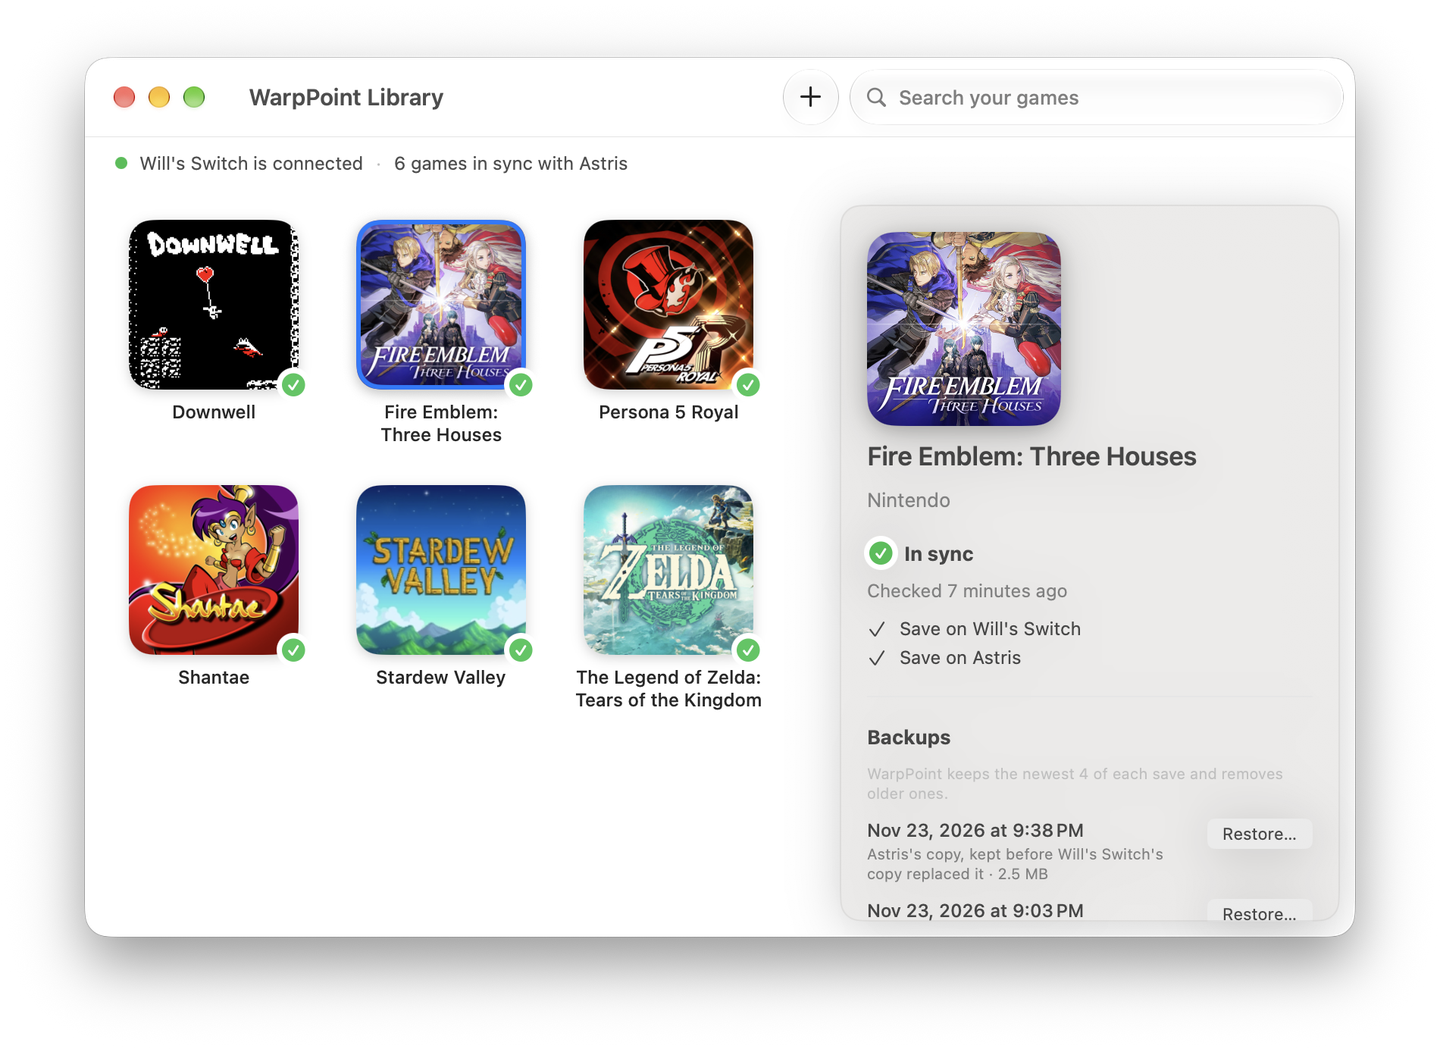
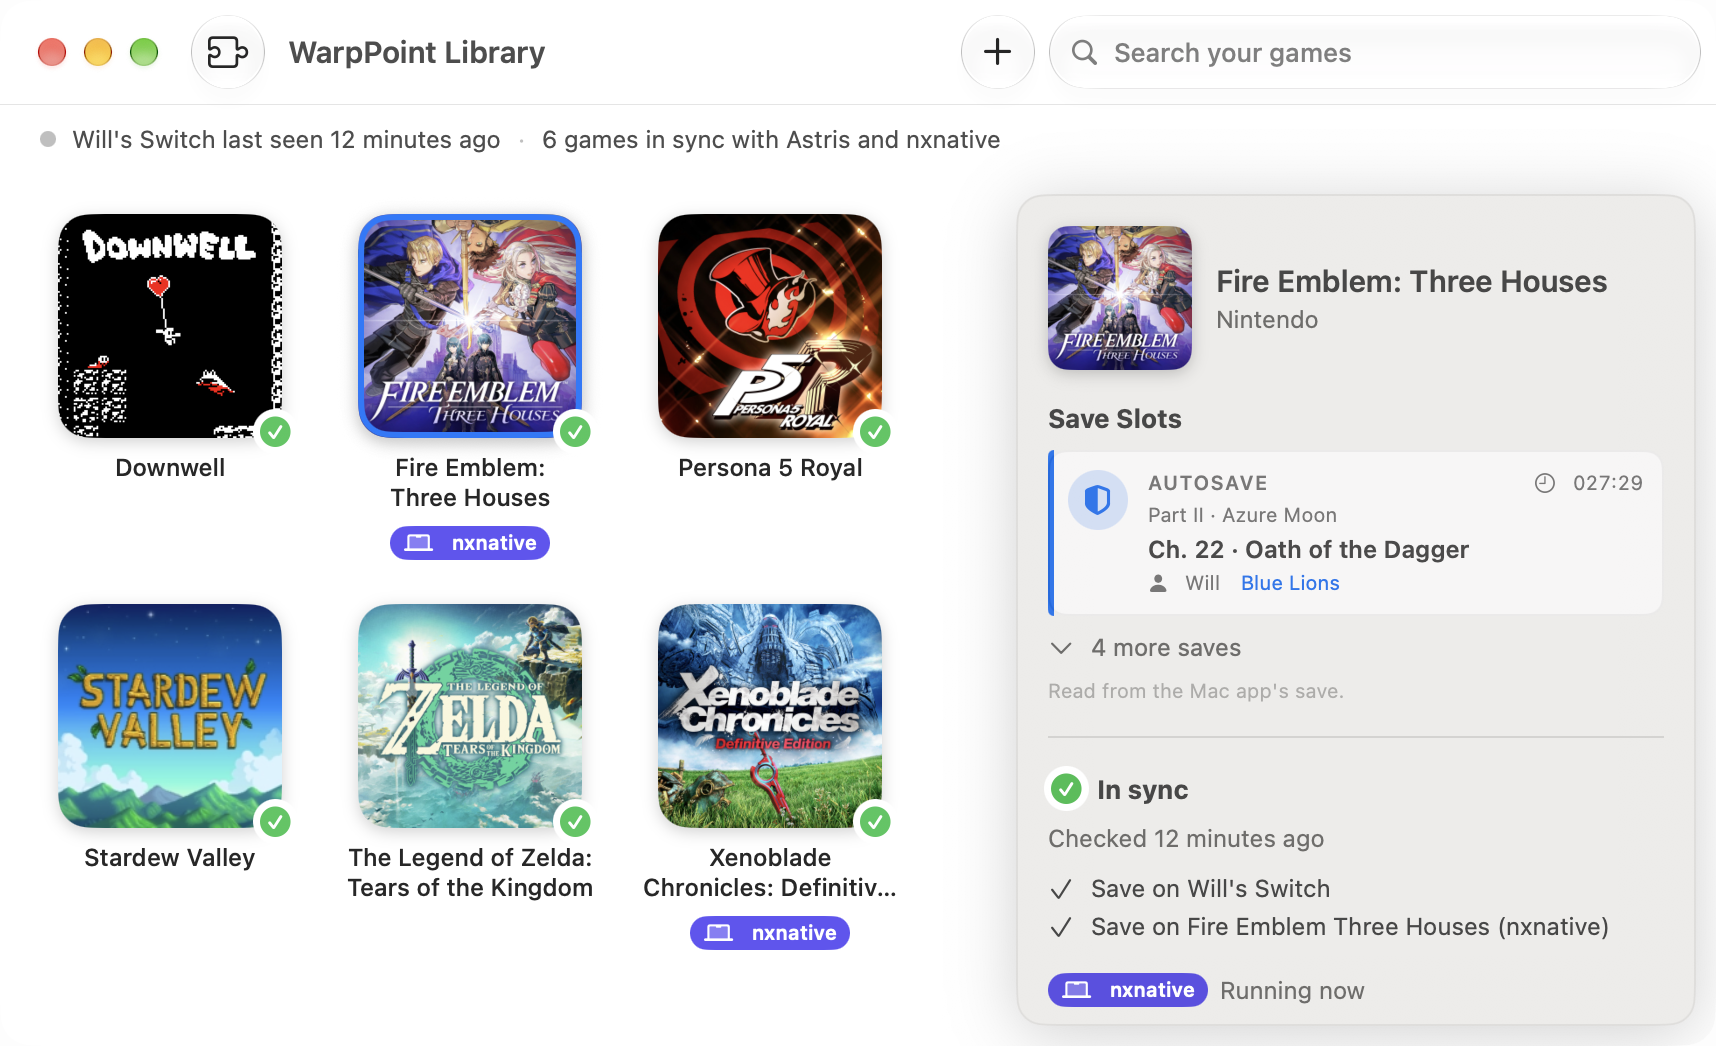
Library: a save that changed on both sides gets a card at the top of the details panel
Two full-width buttons, the Mac's copy and the Switch's, in place of the two cut-off
buttons below the nxnative section. New library screenshot in the README.

diff --git a/app/mac/Sources/GameDetail.swift b/app/mac/Sources/GameDetail.swift
@@ -23,6 +23,9 @@ struct GameDetail: View {
     ScrollView(.vertical) {
       VStack(alignment: .leading, spacing: 16) {
         header
+        if game.status == "conflict", let c = model.conflicts.first(where: { $0.key == game.key }) {
+          conflictCard(c)
+        }
         if preview.supported {
           SavePreviewSection(preview: preview,
                              source: game.isNative ? "the Mac app's save" : "\(emulator)'s save",
@@ -142,15 +145,53 @@ struct GameDetail: View {
            : "Not on \(console) yet. Start the game there once, then pick which save to keep on the next sync. (WarpPoint 1.3 on the Switch can make the save itself.)")
         .font(.callout).foregroundStyle(.secondary)
         .fixedSize(horizontal: false, vertical: true)
-    } else if game.status == "conflict", let c = model.conflicts.first(where: { $0.key == game.key }) {
-      VStack(alignment: .leading, spacing: 6) {
-        HStack {
-          Button("Keep \(emulator)") { model.resolve(c, keepLocal: true) }
-          Button("Keep \(console)") { model.resolve(c, keepLocal: false) }
-        }
-        Text("The other copy is backed up first.").font(.caption).foregroundStyle(.secondary)
+    }
+  }
+
+  /// A save that changed on both sides: the first thing in the panel, with one big button
+  /// per copy.
+  private func conflictCard(_ c: Conflict) -> some View {
+    VStack(alignment: .leading, spacing: 10) {
+      HStack(spacing: 8) {
+        Image(systemName: "exclamationmark.triangle.fill").foregroundStyle(.orange)
+        Text("Changed on both sides").font(.headline)
+      }
+      Text("Which copy do you want to keep? The other one is backed up first, so you can get it back.")
+        .font(.callout).foregroundStyle(.secondary)
+        .fixedSize(horizontal: false, vertical: true)
+      keepButton(title: "Keep the Mac's copy", detail: game.macName, icon: "laptopcomputer") {
+        model.resolve(c, keepLocal: true)
+      }
+      keepButton(title: "Keep \(console)'s copy", detail: "The save on \(console)",
+                 icon: "gamecontroller") {
+        model.resolve(c, keepLocal: false)
       }
     }
+    .padding(12)
+    .frame(maxWidth: .infinity, alignment: .leading)
+    .background(Color.orange.opacity(0.10), in: RoundedRectangle(cornerRadius: 10))
+    .overlay(RoundedRectangle(cornerRadius: 10).strokeBorder(Color.orange.opacity(0.35)))
+  }
+
+  private func keepButton(title: String, detail: String, icon: String,
+                          action: @escaping () -> Void) -> some View {
+    Button(action: action) {
+      HStack(spacing: 10) {
+        Image(systemName: icon).font(.system(size: 17)).frame(width: 24)
+        VStack(alignment: .leading, spacing: 1) {
+          Text(title).font(.callout.weight(.semibold))
+          Text(detail).font(.caption).foregroundStyle(.secondary).lineLimit(1)
+        }
+        Spacer(minLength: 0)
+        Image(systemName: "chevron.right").font(.caption).foregroundStyle(.tertiary)
+      }
+      .padding(.horizontal, 10).padding(.vertical, 8)
+      .frame(maxWidth: .infinity, alignment: .leading)
+      .background(.background.opacity(0.8), in: RoundedRectangle(cornerRadius: 8))
+      .overlay(RoundedRectangle(cornerRadius: 8).strokeBorder(.separator.opacity(0.6)))
+      .contentShape(RoundedRectangle(cornerRadius: 8))
+    }
+    .buttonStyle(.plain)
   }
 
   private var blockedByOpenApp: Bool {

diff --git a/README.md b/README.md
@@ -13,7 +13,7 @@
 </p>
 
 <p align="center">
-  <img src="docs/images/library.png" width="720" alt="The WarpPoint library window: games with their icons and sync status">
+  <img src="docs/images/library.png" width="720" alt="The WarpPoint library window: six games with their icons, all in sync, and Fire Emblem: Three Houses selected, showing its latest save (Autosave, Part II Azure Moon, Ch. 22 Oath of the Dagger, 27 hours in) with 4 more saves tucked below">
 </p>
 
 WarpPoint is a small menu bar app for the Mac and a background module for the Switch. When both
